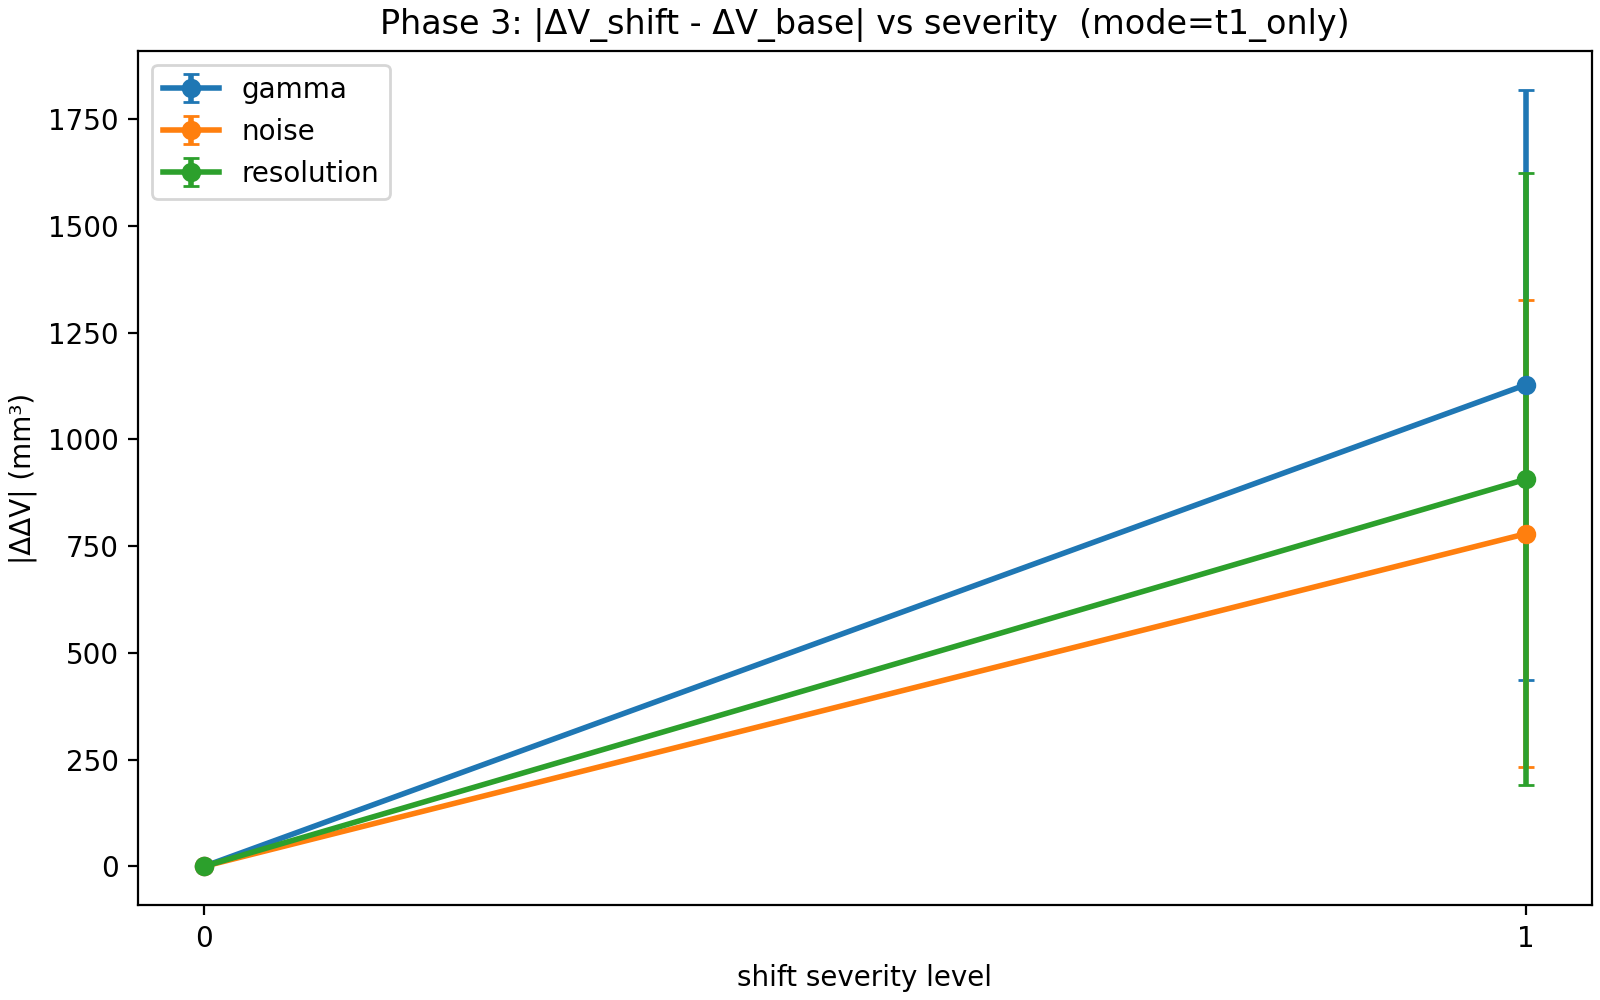
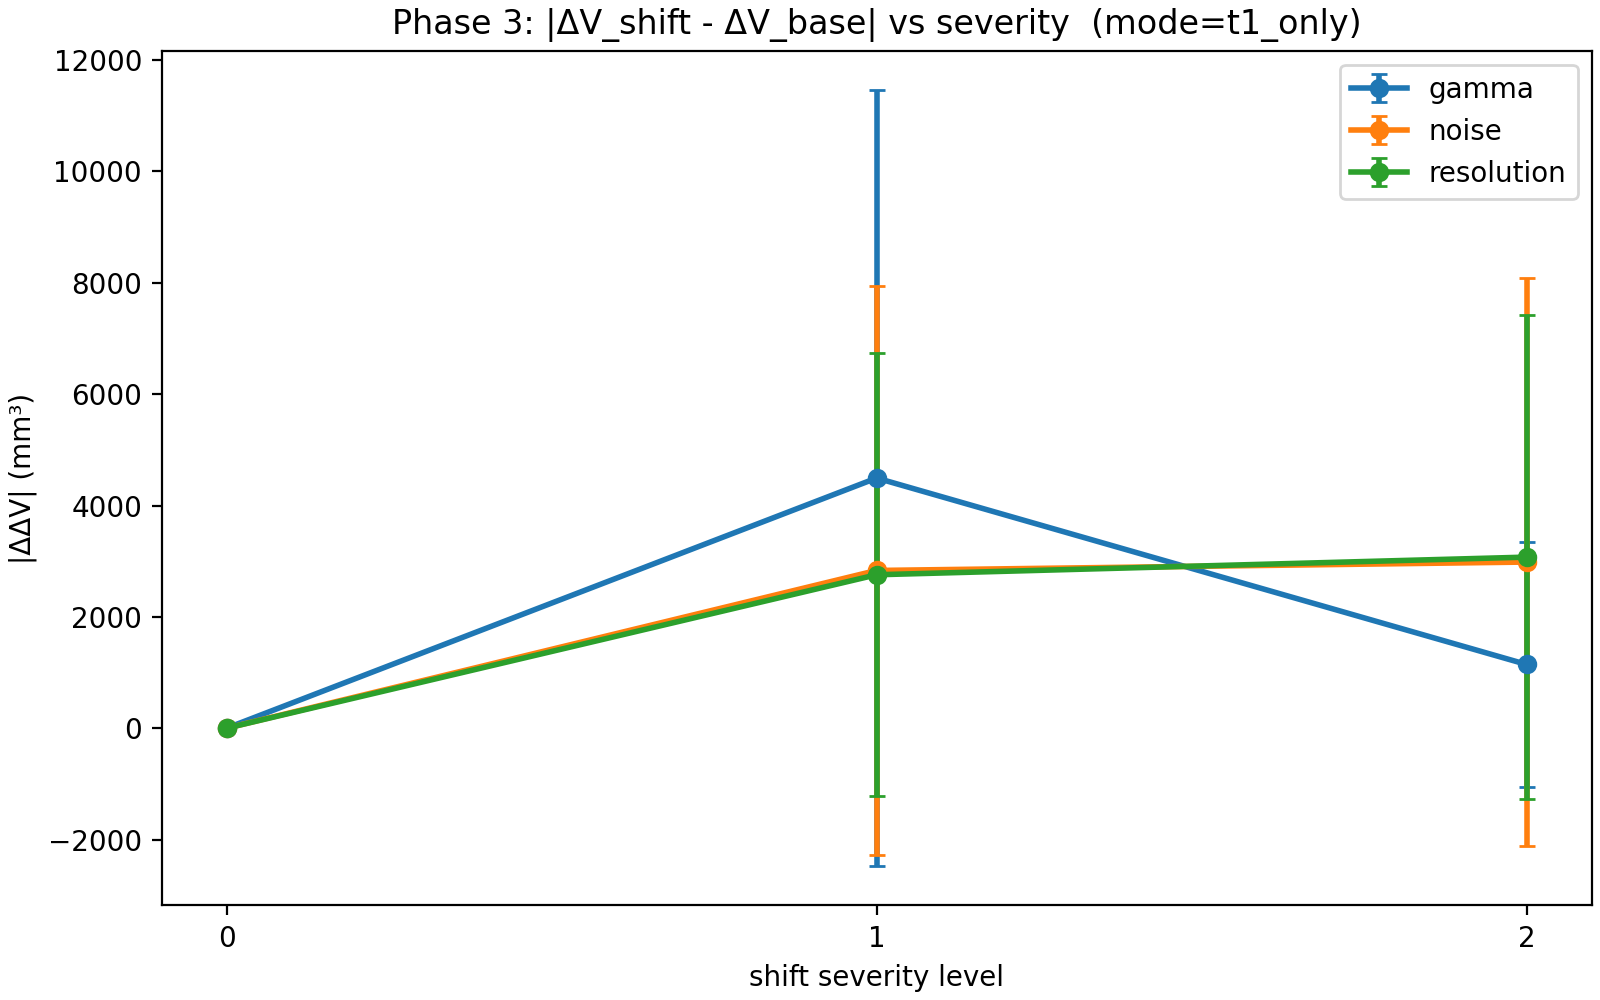
update docs for phase 3 robustness run on selected patients

diff --git a/scripts/08_run_robustness_suite.py b/scripts/08_run_robustness_suite.py
@@ -934,6 +934,68 @@ def main() -> int:
     fig.savefig(out_fig / "phase3_robustness_curve_dice.png", dpi=200)
     plt.close(fig)
 
+    # Robust summaries (median + IQR): less sensitive to outliers than mean±std.
+    def _q(p: float):
+        def f(x):
+            return x.quantile(p)
+
+        f.__name__ = f"q{int(round(100 * p))}"
+        return f
+
+    gb_rob = df_ok.groupby(["mode", "shift", "level"], as_index=False)
+    summary_rob = gb_rob.agg(
+        abs_deltaV_minus_base_mm3_median=("abs_deltaV_minus_base_mm3", "median"),
+        abs_deltaV_minus_base_mm3_q25=("abs_deltaV_minus_base_mm3", _q(0.25)),
+        abs_deltaV_minus_base_mm3_q75=("abs_deltaV_minus_base_mm3", _q(0.75)),
+        dice_sym_minus_base_median=("dice_sym_minus_base", "median"),
+        dice_sym_minus_base_q25=("dice_sym_minus_base", _q(0.25)),
+        dice_sym_minus_base_q75=("dice_sym_minus_base", _q(0.75)),
+        n=("patient_id", "count"),
+    )
+
+    # Robust ΔV curve: median with IQR band
+    fig = plt.figure(figsize=(8, 5), layout="constrained")
+    ax = fig.subplots()
+    for shift_name in shifts:
+        sub = summary_rob[(summary_rob["shift"] == shift_name)].sort_values("level")
+        if sub.empty:
+            continue
+        xs = sub["level"].astype(int).to_numpy()
+        y_med = sub["abs_deltaV_minus_base_mm3_median"].to_numpy(dtype=float)
+        y_lo = sub["abs_deltaV_minus_base_mm3_q25"].to_numpy(dtype=float)
+        y_hi = sub["abs_deltaV_minus_base_mm3_q75"].to_numpy(dtype=float)
+        (line,) = ax.plot(xs, y_med, marker="o", linewidth=2, label=shift_name)
+        ax.fill_between(xs, y_lo, y_hi, color=line.get_color(), alpha=0.20, linewidth=0)
+    ax.set_title(f"Phase 3 (robust): |ΔV_shift - ΔV_base| median (IQR)  (mode={args.mode})")
+    ax.set_xlabel("shift severity level")
+    ax.set_ylabel("|ΔΔV| (mm³)")
+    ax.set_xticks(levels_present)
+    ax.legend()
+    fig.savefig(out_fig / "phase3_robustness_curve_deltaV_robust.png", dpi=200)
+    plt.close(fig)
+
+    # Robust Dice curve: median with IQR band
+    fig = plt.figure(figsize=(8, 5), layout="constrained")
+    ax = fig.subplots()
+    for shift_name in shifts:
+        sub = summary_rob[(summary_rob["shift"] == shift_name)].sort_values("level")
+        if sub.empty:
+            continue
+        xs = sub["level"].astype(int).to_numpy()
+        y_med = sub["dice_sym_minus_base_median"].to_numpy(dtype=float)
+        y_lo = sub["dice_sym_minus_base_q25"].to_numpy(dtype=float)
+        y_hi = sub["dice_sym_minus_base_q75"].to_numpy(dtype=float)
+        (line,) = ax.plot(xs, y_med, marker="o", linewidth=2, label=shift_name)
+        ax.fill_between(xs, y_lo, y_hi, color=line.get_color(), alpha=0.20, linewidth=0)
+    ax.axhline(0.0, color="black", linewidth=1)
+    ax.set_title(f"Phase 3 (robust): ΔDice_sym_cons median (IQR)  (mode={args.mode})")
+    ax.set_xlabel("shift severity level")
+    ax.set_ylabel("ΔDice (to change GT)")
+    ax.set_xticks(levels_present)
+    ax.legend()
+    fig.savefig(out_fig / "phase3_robustness_curve_dice_robust.png", dpi=200)
+    plt.close(fig)
+
     # Sensitive-case visualization: pick row with largest |ΔΔV| among shifted levels (>0).
     df_shifted = df_ok[df_ok["level"].astype(int) > 0].copy()
     if not df_shifted.empty:

diff --git a/README.md b/README.md
@@ -38,7 +38,8 @@ MS-LAM currently supports a complete end-to-end pipeline on one public longitudi
 - Patient-level monitoring reports: `results/reports/phase2/patientXX.json`
 - Aggregate monitoring table: `results/tables/phase2_longitudinal_metrics.csv`
 - Robustness sensitivity summary: `results/tables/phase3_robustness_summary.csv`
-- Robustness curve: `results/figures/phase3_robustness_curve_deltaV.png`
+- Robustness curves (mean±std): `results/figures/phase3_robustness_curve_deltaV.png`, `results/figures/phase3_robustness_curve_dice.png`
+- Robustness curves (median/IQR): `results/figures/phase3_robustness_curve_deltaV_robust.png`, `results/figures/phase3_robustness_curve_dice_robust.png`
 - Uncertainty/QC table: `results/tables/phase4_uncertainty_metrics.csv`
 - Uncertainty/QC reports: `results/reports/phase4/patientXX.json`
 
@@ -63,6 +64,12 @@ Example cases (this run):
 - `patient04`: flagged by high lesion-mean uncertainty at t1 (and also high Phase 2 error), a typical “needs review” case.
 - `patient07`: flagged by high brain-wide p95 uncertainty at t1 even though lesion-mean uncertainty is not extreme (suggesting more global instability/artefacts).
 - `patient01`: not flagged; shown as a non-flagged reference example.
+
+**Robustness sensitivity (typical risk; median/IQR)**  
+![Robustness curve (ΔV, robust)](results/figures/phase3_robustness_curve_deltaV_robust.png)
+
+Caption: x = shift severity; y = `|ΔV_shift − ΔV_base|` (mm³), shown as median with IQR band across the selected cohort.
+For full robustness outputs (including mean±std curves and worst-case visualization), see `docs/phase_notes/phase3.md`.
 
 ---
 
@@ -245,7 +252,12 @@ Outputs:
 * `results/tables/phase3_robustness.csv` + `results/tables/phase3_robustness_summary.csv`
 * `results/figures/phase3_robustness_curve_deltaV.png`
 * `results/figures/phase3_robustness_curve_dice.png`
+* `results/figures/phase3_robustness_curve_deltaV_robust.png`
+* `results/figures/phase3_robustness_curve_dice_robust.png`
 * `results/figures/phase3_sensitive_case.png`
+
+Notes:
+- For interpretation (median/IQR vs mean±std; and why the sensitive-case figure shows exactly one patient), see `docs/phase_notes/phase3.md`.
 
 ### 6) Uncertainty maps (voxel → patient) + QC flags
 

diff --git a/docs/phase_notes/phase3.md b/docs/phase_notes/phase3.md
@@ -48,8 +48,34 @@ The Phase 3 runner produces:
 - `results/tables/phase3_runlog.csv`: LST-AI docker run log for shifted inference
 - `results/figures/phase3_robustness_curve_deltaV.png`: sensitivity curve for |ΔV_shift − ΔV_base|
 - `results/figures/phase3_robustness_curve_dice.png`: sensitivity curve for Dice_sym_cons shift-induced change
+- `results/figures/phase3_robustness_curve_deltaV_robust.png`: median (IQR) sensitivity curve for |ΔV_shift − ΔV_base|
+- `results/figures/phase3_robustness_curve_dice_robust.png`: median (IQR) sensitivity curve for Dice_sym_cons shift-induced change
 - `results/figures/phase3_sensitive_case.png`: a worst-case example across severity levels
 
 ## Key interpretation (what this phase means)
 - Large |ΔΔV| under `t1_only` indicates that follow-up heterogeneity can create **false change** in monitoring signals.
 - Dice drops (vs change-GT) under shift indicate degraded agreement with observed change regions, helping diagnose “unsafe” conditions.
+
+### Mean±std vs median(IQR)
+We save both:
+- **mean±std** curves: emphasize *tail risk* (but can be dominated by outliers on small cohorts),
+- **median(IQR)** curves: emphasize *typical* sensitivity and are more robust to a single extreme case.
+
+## Figures (recommended reading order)
+
+### Typical sensitivity (robust)
+These summarize the *typical* impact of shift on monitoring/validation signals (median with IQR band):
+
+![Phase 3 robust ΔV curve](../../results/figures/phase3_robustness_curve_deltaV_robust.png)
+
+- y-axis is `|ΔV_shift − ΔV_base|` (mm³). If this grows with severity, follow-up heterogeneity can create *false change*.
+
+![Phase 3 robust Dice curve](../../results/figures/phase3_robustness_curve_dice_robust.png)
+
+- y-axis is `Dice_sym_cons(shift) − Dice_sym_cons(base)` (to change-GT). Negative values indicate degraded agreement under shift.
+
+### Tail risk / failure mode (single worst-case)
+This figure intentionally shows **one** patient: the worst case selected by largest `|ΔΔV|` among shifted runs.
+It is meant for diagnosing *how* shift breaks the pipeline, not for representing a typical patient.
+
+![Phase 3 sensitive case](../../results/figures/phase3_sensitive_case.png)
